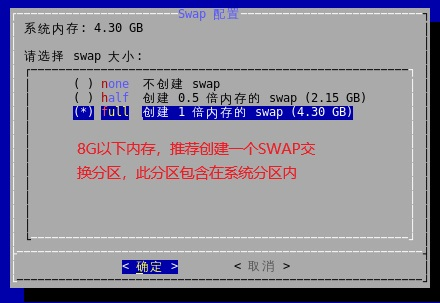
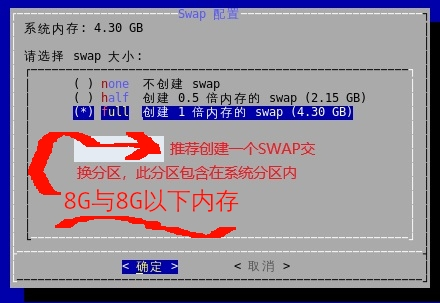
finished quick 5 minutes guildine

Changed region(s): [[0.0591, 0.4158, 0.5614, 0.802]]

diff --git a/docs/docs/quick-start/index.md b/docs/docs/quick-start/index.md
@@ -6,10 +6,10 @@
 
 在开始之前，请确保您已准备好以下物品：
 
-- [ ] OneNAS 设备或一台兼容的计算机
-- [ ] 至少一块硬盘（推荐使用 SSD 作为系统盘）
-- [ ] 网线一根
-- [ ] 可正常工作的网络环境
+- [ * ] OneNAS 设备或一台兼容的计算机
+- [ * ] 至少一块硬盘（推荐使用 SSD 作为系统盘, 系统盘至少5G, 推荐60G）
+- [ * ] 网线一根 必须是一台有RJ45有线网口的电脑才可安装
+- [ * ] 可正常工作的网络环境
 
 ## 安装步骤
 
@@ -41,60 +41,131 @@
 
    - 确认格式化警告，等待写入完成
 
-4. **完成**
-   - 状态栏显示"准备就绪"后，即可拔出 U 盘
+### 2. 从 U 盘启动并安装系统
 
-### 2. 获取 IP 地址
+将制作好的启动 U 盘插入目标设备，开机并选择从 U 盘启动：
 
-设备启动后，会自动从路由器获取 IP 地址。您可以通过以下方式查看：
+1. **GRUB 启动菜单**
+   - 开机后您将看到 OneNAS 的 GRUB 启动菜单
 
-- 登录路由器管理界面查看设备列表
-- 使用 `OneNAS.local` 域名访问（需支持 mDNS）
+     ![GRUB 启动菜单](../images/installation/onenas-livecd-grub-menu.jpg)
 
-### 3. 初始化配置
+   - 使用上下方向键选择 **Start OneNAS SCALE Installation**，按回车键确认
 
-在浏览器中访问获取到的 IP 地址，您将看到初始设置向导：
+2. **LiveCD 启动加载**
+   - 系统开始将文件系统加载到内存中
 
-1. **设置管理员密码**
-   - 输入并确认您的管理员密码
-   - 密码长度至少 8 位，建议包含字母和数字
+     ![LiveCD 启动加载](../images/installation/onenas-livecd-startup.jpg)
+     ![LiveCD 安装菜单](../images/installation/onenas-livecd-install-menu.jpg)
 
-2. **配置网络**
-   - 选择是否使用 DHCP 自动获取 IP
-   - 或手动设置静态 IP 地址
 
-3. **创建存储池**
-   - 选择要使用的硬盘
-   - 选择 RAID 类型（推荐 RAID 1 或 RAID 5）
+3. **选择安装语言**
+   - 加载完成后，首先进入语言选择界面
 
-4. **完成设置**
-   - 确认配置信息
-   - 点击"完成"按钮
+     ![语言选择](../images/installation/onenas-livecd-language-cn.jpg)
+
+   - 选择 **2 中文 (Chinese)**，按回车键确认
+
+4. **磁盘擦除警告**
+   - 系统会列出将要安装到的磁盘，并提示将擦除这些磁盘上的所有分区和数据
+
+     ![磁盘擦除警告](../images/installation/onenas-livecd-disk-erase-warning.jpg)
+
+   - **注意**：此操作将清空选定磁盘的所有数据，请确保已备份重要资料
+   - 确认无误后选择 **是**，按回车键继续
+
+5. **分区设置**
+   - 接下来需要选择系统分区的分配方式
+
+     ![分区设置](../images/installation/onenas-livecd-boot-disk-percent.jpg)
+
+   - **full**：整个磁盘都用作系统盘
+   - **percentage**：按磁盘容量百分比设置（推荐，可在同一磁盘上保留空间用于存储池）
+   - 如果您只有一块硬盘，**务必选择 percentage**，以便剩余空间创建存储池, 用于文件共享等
+   - 选择完成后按回车键确认
+
+6. **Swap 配置**
+   - 设置 Swap 交换分区大小
+
+     ![Swap 配置](../images/installation/onenas-livecd-swap.jpg)
+
+   - **none**：不创建 swap
+   - **half**：创建 0.5 倍内存的 swap
+   - **full**：创建 1 倍内存的 swap（推荐）
+   - 如果系统内存 **8GB和8G以下**，推荐创建 swap 交换分区，此分区包含在系统分区内
+   - 选择完成后按回车键确认
+
+7. **设置 Root 密码**
+   - 设置系统的 Root 管理员密码
+
+     ![设置 Root 密码](../images/installation/onenas-livecd-root-password.jpg)
+
+   - Root 密码是管理 OneNAS 系统最重要的密码之一，请务必牢记
+   - 输入密码并按回车键，再次输入确认密码
+
+8. **安装成功**
+   - 确认无误后继续，系统将开始自动安装
+   - 安装过程大约需要 1-3 分钟，请耐心等待
+     ![安装成功*](../images/installation/onenas-livecd-install-success.jpg)
+   - 重启时请拔出 U 盘，以免再次进入 LiveCD 模式
+
+### 3. 系统首次启动
+
+安装完成后，设备首次启动会进入系统管理配置界面：
+
+1. **启动菜单**
+   - 系统启动后会显示启动管理工具菜单
+   - 系统允许有多个版本, 按ESC键可选择不同的版本
+     ![系统启动菜单](../images/installation/onenas-startup-menu.jpg)
+
+
+2. **系统配置**
+
+   - 设备启动后，会自动从路由器获取(DHCP) IP 地址。
+
+   - 选择 **Set Manual IP for Network Interface** 可设置静态 IP 地址
+
+     ![系统配置菜单](../images/installation/onenas-sysconfig-menu.jpg)
+
+   - 配置完成后即可通过显示的 IP 地址访问 Web 管理界面
+
+
+### 5. 初始化配置
+
+在浏览器中访问获取到的 IP 地址，开始 Web 端的初始化配置：
+
+1. **处理证书与首次访问**
+   - 首次访问时，浏览器可能会提示安全证书不受信任（因为使用了自签名证书）
+
+     ![处理证书与首次访问](../images/installation/onenas-self-sign-certi.jpg)
+
+   - 点击**高级**或**继续前往**，选择接受并继续访问
+
+2. **创建管理员账户**
+   - 首次访问 Web 界面，系统会要求创建第一个管理员账户
+
+     ![创建管理员账户](../images/installation/onenas-create-admin-account.jpg)
+
+   - **注意**：管理 OneNAS 最重要的两个账号与密码，第一个是 root（在安装时已设置），第二个就是在此设定的管理员账户
+   - 输入用户名、密码和确认密码
+   - 点击**创建**按钮完成管理员账户创建
+
+3. **登录 Web 管理界面**
+   - 使用刚创建的管理员账户登录
+
+     ![Web 管理界面](../images/installation/onenas-admin-web.jpg)
+
+   - 登录后即可看到 OneNAS 的 Web 管理界面，包含用户管理、存储器、Samba、Docker 等功能模块
 
 ## 验证安装
 
 安装完成后，您可以：
 
-1. 登录 Web 管理界面
+1. 登录 Web 管理界面，确认各功能模块正常显示
 2. 创建一个测试共享文件夹
-3. 从电脑访问 `\\OneNAS.local\共享文件夹名`
+3. 从电脑访问 `\\192.268.3.204\共享文件夹名`
 
-## 下一步
+### 忘记 Root 密码？
 
-- 📚 [了解高级存储配置](../index.md)
-- 🔐 [设置用户和权限](../index.md)
-- 🔄 [配置自动备份](../index.md)
-
-## 常见问题
-
-### 无法访问 Web 界面？
-
-- 检查网线是否连接正常
-- 确认设备指示灯状态
-- 尝试使用 IP 地址直接访问
-
-### 硬盘未被识别？
-
-- 确认硬盘已正确安装
-- 检查硬盘是否兼容
-- 尝试重新插拔硬盘
+- 可通过 LiveCD 重新启动并选择修复模式重置密码
+- 或参考官方文档中的密码恢复指南
